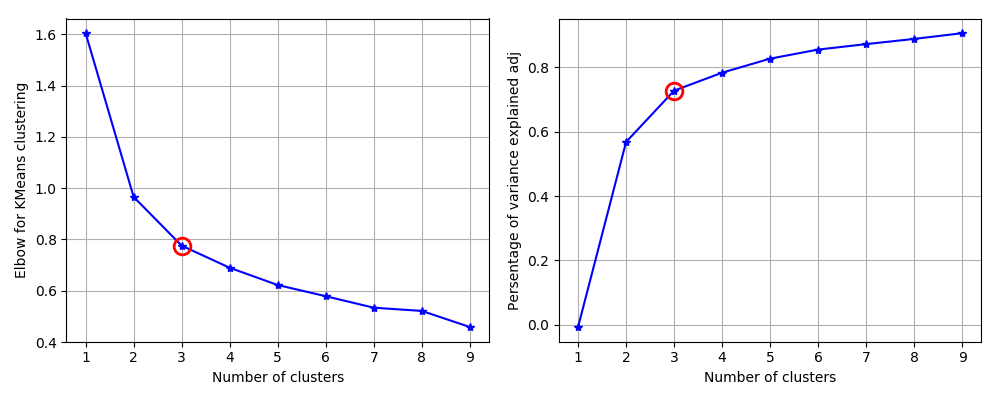
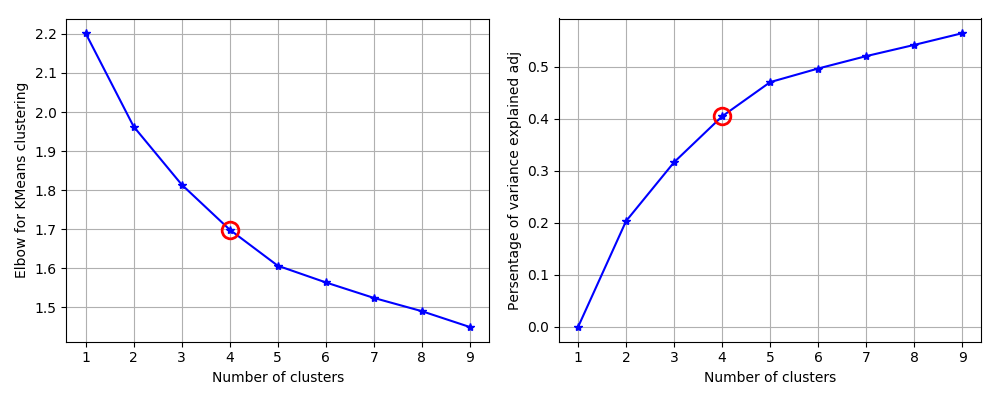
kmeans with elbow and silouette method

diff --git a/k_means.py b/k_means.py
@@ -25,6 +25,7 @@ from matplotlib.colors import ListedColormap
 from scipy.spatial.distance import cdist, pdist
 from sklearn.metrics import silhouette_samples, silhouette_score
 from matplotlib import cm
+from sklearn.cluster import AgglomerativeClustering
 
 #####  Clustering  ####
 '''
@@ -58,7 +59,7 @@ X=df[rfactors]
 #Y=df.iloc[:,0]
 #X=df.iloc[:,1:22]
 
-
+'''
 ### K Means Cluster
 model=KMeans(n_clusters=4,random_state=11)
 model.fit(X)
@@ -97,42 +98,30 @@ plt.suptitle('Sample Chart')
 plt.savefig('barchart.png',dpi=100)
 
 #####  Finding the value of k
-'''
+
 ####   Elbow method
-## load data
-iris=datasets.load_iris()
-## convert the dataframe
-iris=pd.DataFrame(data=np.c_[iris['data'],iris['target']],columns=iris['feature_names']+['species'])
-## removing whitespace
-iris.columns=iris.columns.str.strip()  ### strip se izvikwa z str.
-iris.head()
-## prepare data
-x=iris.iloc[:,:3]
-y=iris.species
-sc=StandardScaler()
-sc.fit(x)
-x=sc.transform(x)
+
 ### K Means Cluster
 K=range(1,10)
 
-KM=[KMeans(n_clusters=k).fit(x) for k in K]
+KM=[KMeans(n_clusters=k).fit(X) for k in K]
 centroids=[k.cluster_centers_ for k in KM]
 
-D_k=[cdist(x,cent,'euclidean') for cent in centroids]
+D_k=[cdist(X,cent,'euclidean') for cent in centroids]
 cIdx=[np.argmin(D,axis=1) for D in D_k]
 dist=[np.min(D,axis=1) for D in D_k]
-avgWithinSS=[sum(d)/x.shape[0] for d in dist]
+avgWithinSS=[sum(d)/X.shape[0] for d in dist]
 ## Total with-in sum of square
 wcss=[sum(d**2) for d in dist]
-tss=sum(pdist(x)**2)/x.shape[0]
+tss=sum(pdist(X)**2)/X.shape[0]
 bss=tss-wcss
 varExplained=bss/tss
 
-adjRsq=[1-((1-varExplained[k-1])*(x.shape[0]-1)/(x.shape[0]-k-1)) for k in K]
+adjRsq=[1-((1-varExplained[k-1])*(X.shape[0]-1)/(X.shape[0]-k-1)) for k in K]
 print([adjRsq[k+1]-adjRsq[k] for k in range(0,8)])
 kIdx=10-1
 #### plot ####
-kIdx=2
+kIdx=3
 ###  elbow curve
 plt.figure(figsize=(10,4))
 plt.subplot(1,2,1)
@@ -151,16 +140,16 @@ plt.xlabel('Number of clusters')
 plt.ylabel('Persentage of variance explained adj')
 plt.tight_layout()
 plt.savefig('elbow_graphs.png')
-
+'''
 ########  Average Silhouette Method
 
 score = []
 for n_clusters in range(2,10):
     kmeans = KMeans(n_clusters=n_clusters)
-    kmeans.fit(x)
+    kmeans.fit(X)
     labels = kmeans.labels_
     centroids = kmeans.cluster_centers_
-    score.append(silhouette_score(x, labels, metric='euclidean'))
+    score.append(silhouette_score(X, labels, metric='euclidean'))
 # Set the size of the plot
 plt.figure(figsize=(10,4))
 plt.subplot(1, 2, 1)
@@ -170,12 +159,14 @@ plt.ylabel("Silouette Score")
 plt.xlabel("k")
 plt.title("Silouette for K-means")
 # Initialize the clusterer with n_clusters value and a random generator
-model = KMeans(n_clusters=3, init='k-means++', n_init=10, random_state=0)
-model.fit_predict(x)
+model = KMeans(n_clusters=4, init='k-means++', n_init=10, random_state=10)
+model.fit_predict(X)
+#### smeniame 1 ot fit na 0; 0 ot fit na 1,kakto waw faila
+#df['pred_buying']=np.choose(model.labels_,[1,2,3,4]).astype(np.int64)
 cluster_labels = np.unique(model.labels_)
 n_clusters = cluster_labels.shape[0]
 # Compute the silhouette scores for each sample
-silhouette_vals = silhouette_samples(x, model.labels_)
+silhouette_vals = silhouette_samples(X, model.labels_)
 plt.subplot(1, 2, 2)
 # Get spectral values for colormap.
 cmap = cm.get_cmap("Spectral")
@@ -185,7 +176,7 @@ for i, c in enumerate(cluster_labels):
     c_silhouette_vals = silhouette_vals[cluster_labels]
     c_silhouette_vals.sort()
     y_upper += len(c_silhouette_vals)
-    color = cmap(float(i) / n_clusters)
+    color = cmap(float(i) / n_clusters +0.1)
     plt.barh(range(y_lower, y_upper), c_silhouette_vals, facecolor=color,edgecolor=color, alpha=0.7)
     yticks.append((y_lower + y_upper) / 2)
     y_lower += len(c_silhouette_vals)
@@ -197,5 +188,17 @@ plt.ylabel('Cluster')
 plt.xlabel('Silhouette coefficient')
 plt.title("Silouette for K-means")
 plt.savefig('Silouette_graphs.png')
+
+#####  Hierarchical Clustering
 '''
+# Agglomerative Cluster
+model = AgglomerativeClustering(n_clusters=4)
+# lets fit the model to the iris data set that we imported in Listing 3-49
+model.fit(X)
+### smeniame 1 ot fit na 0; 0 ot fit na 1,kakto waw faila
+df['pred_buying']=np.choose(model.labels_,[1,2,3,4]).astype(np.int64)
+print("Accuracy :", metrics.accuracy_score(df['buying'], df['pred_buying']))
+'''
+
+
 
